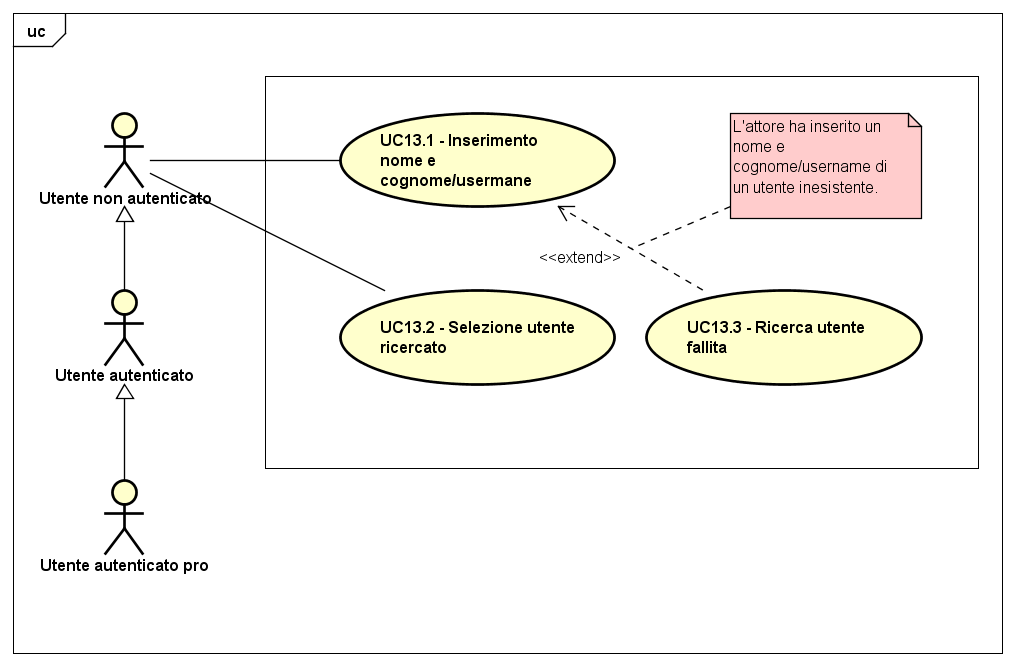
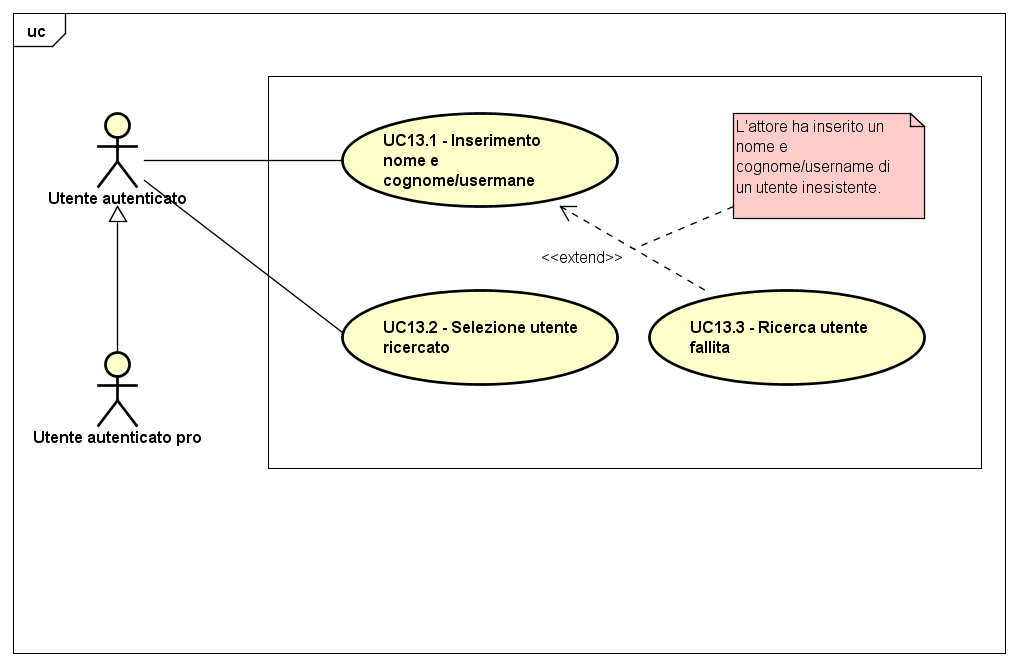
Correzzione UC5, 13, 8.1.3.7 e 8.2.3.7

diff --git a/RR/AnalisiDeiRequisiti/sezioni/CasiD'uso/CasoD'usoUC5.tex b/RR/AnalisiDeiRequisiti/sezioni/CasiD'uso/CasoD'usoUC5.tex
@@ -1,4 +1,5 @@
 \subsection{Caso d'uso UC5: Gestione profilo utente}
+
 \label{UC5}
 \begin{figure}[h]
 	\centering
@@ -9,7 +10,7 @@
 \begin{itemize}
 	\item \textbf{Attori}: utente autenticato, utente autenticato pro;
 	\item \textbf{Descrizione}: l'attore può visualizzare e modificare i suoi dati personali;
-	\item \textbf{Precondizione}: il sistema è predisposto per consentire all'attore di gestire i propri dati personali;
+	\item \textbf{Precondizione}: l'attore è entrato nella gestione del proprio profilo utente;
 	\item \textbf{Postcondizione}: il sistema ha attuato le modifiche effettuate dall'attore ai propri dati personali;
 	\item \textbf{Scenario principale}:
 		\begin{enumerate}
@@ -35,7 +36,7 @@
 \begin{itemize}
 	\item \textbf{Attori}: utente autenticato, utente autenticato pro;
 	\item \textbf{Descrizione}: l'attore può modificare il proprio nome;
-	\item \textbf{Precondizione}: il sistema presenta la schermata dove è possibile modificare il nome utente;
+	\item \textbf{Precondizione}: l'attore ha selezionato l'opzione modifica nome utente dalla gestione del profilo utente;
 	\item \textbf{Postcondizione}: il sistema ha reso persistenti le modifiche al nome utente;
 	\item \textbf{Scenario principale}:
 		\begin{enumerate}
@@ -50,7 +51,7 @@
 \begin{itemize}
 	\item \textbf{Attori}: utente autenticato, utente autenticato pro;
 	\item \textbf{Descrizione}: l'attore può inserire un nuovo nome utente;
-	\item \textbf{Precondizione}: il sistema richiede all'attore di inserire un nuovo nome utente;
+	\item \textbf{Precondizione}: l'attore ha selezionato l'opzione modifica nome utente dalla gestione del profilo utente;
 	\item \textbf{Postcondizione}: l'attore ha inserito il nuovo nome utente;
 	\item \textbf{Scenario principale}: l'attore inserisce il nuovo nome utente.
 \end{itemize}
@@ -75,7 +76,7 @@
 \begin{itemize}
 	\item \textbf{Attori}: utente autenticato, utente autenticato pro;
 	\item \textbf{Descrizione}: l'attore può modificare il proprio cognome;
-	\item \textbf{Precondizione}: il sistema presenta la schermata dove è possibile modificare il cognome utente;
+	\item \textbf{Precondizione}: l'attore ha selezionato l'opzione modifica cognome utente dalla gestione del profilo utente; 
 	\item \textbf{Postcondizione}: il sistema ha reso persistenti le modifiche al cognome utente;
 	\item \textbf{Scenario principale}:
 	\begin{enumerate}
@@ -90,7 +91,7 @@
 \begin{itemize}
 	\item \textbf{Attori}: utente autenticato, utente autenticato pro;
 	\item \textbf{Descrizione}: l'attore può inserire un nuovo cognome utente;
-	\item \textbf{Precondizione}:  il sistema richiede all'attore di inserire un nuovo cognome utente;
+	\item \textbf{Precondizione}:  l'attore ha selezionato l'opzione modifica cognome utente dalla gestione del profilo utente; 
 	\item \textbf{Postcondizione}:  l'attore ha inserito il nuovo cognome utente;
 	\item \textbf{Scenario principale}: l'attore inserisce il nuovo cognome utente.
 \end{itemize}
@@ -115,7 +116,7 @@
 \begin{itemize}
 	\item \textbf{Attori}: utente autenticato, utente autenticato pro;
 	\item \textbf{Descrizione}: l'attore può modificare il proprio username;
-	\item \textbf{Precondizione}: il sistema presenta la schermata dove è possibile modificare lo username;
+	\item \textbf{Precondizione}: l'attore ha selezionato l'opzione modifica username dalla gestione del profilo utente; 
 	\item \textbf{Postcondizione}: il sistema ha reso persistenti le modifiche allo username;
 	\item \textbf{Scenario principale}:
 	\begin{enumerate}
@@ -130,7 +131,7 @@
 \begin{itemize}
 	\item \textbf{Attori}: utente autenticato, utente autenticato pro;
 	\item \textbf{Descrizione}: l'attore può inserire un nuovo username;
-	\item \textbf{Precondizione}: il sistema richiede all'attore di inserire un nuovo username;
+	\item \textbf{Precondizione}: l'attore ha selezionato l'opzione modifica username dalla gestione del profilo utente; 
 	\item \textbf{Postcondizione}: l'attore ha inserito il nuovo username;
 	\item \textbf{Scenario principale}: l'attore inserisce il nuovo username.
 \end{itemize}
@@ -155,7 +156,7 @@
 \begin{itemize}
 	\item \textbf{Attori}: utente autenticato, utente autenticato pro;
 	\item \textbf{Descrizione}: l'attore può inserire una foto/immagine per il proprio profilo utente;
-	\item \textbf{Precondizione}: il sistema presenta la schermata dove è possibile inserire foto/immagini;
+	\item \textbf{Precondizione}: l'attore ha selezionato l'opzione inserimento foto/immagine dalla gestione del profilo utente; 
 	\item \textbf{Postcondizione}: il sistema ha allegato la nuova foto/immagine al profilo utente;
 	\item \textbf{Scenario principale}:
 	\begin{enumerate}
@@ -170,7 +171,7 @@
 \begin{itemize}
 	\item \textbf{Attori}: utente autenticato, utente autenticato pro;
 	\item \textbf{Descrizione}: l'attore può caricare una nuova foto/immagine;
-	\item \textbf{Precondizione}: il sistema richiede all'attore di caricare una nuova foto/immagine;
+	\item \textbf{Precondizione}: l'attore ha selezionato l'opzione inserimento foto/immagine dalla gestione del profilo utente;  
 	\item \textbf{Postcondizione}: l'attore ha caricato una nuova foto/immagine;
 	\item \textbf{Scenario principale}: l'attore carica una nuova foto/immagine.
 \end{itemize}
@@ -197,7 +198,7 @@
 \begin{itemize}
 	\item \textbf{Attori}: utente autenticato, utente autenticato pro;
 	\item \textbf{Descrizione}: l'attore può modificare il proprio indirizzo di posta elettronica inserendone uno nuovo;
-	\item \textbf{Precondizione}: il sistema presenta la schermata dove è possibile modificare l'indirizzo di posta elettronica;
+	\item \textbf{Precondizione}:  l'attore ha selezionato l'opzione modifica e-mail dalla gestione del profilo utente; 
 	\item \textbf{Postcondizione}: il sistema ha reso persistenti le modifiche all'indirizzo di posta elettronica;
 	\item \textbf{Scenario principale}:
 		\begin{enumerate}
@@ -212,7 +213,7 @@
 \begin{itemize}
 	\item \textbf{Attori}: utente autenticato, utente autenticato pro;
 	\item \textbf{Descrizione}: l'attore può inserire un nuovo indirizzo di posta elettronica;
-	\item \textbf{Precondizione}: il sistema richiede all'attore di inserire un nuovo indirizzo di posta elettronica;
+	\item \textbf{Precondizione}:  l'attore ha selezionato l'opzione modifica e-mail dalla gestione del profilo utente;
 	\item \textbf{Postcondizione}: l'attore ha inserito un nuovo indirizzo di posta elettronica;
 	\item \textbf{Scenario principale}: l'attore inserisce un nuovo indirizzo di posta elettronica.
 \end{itemize}
@@ -238,7 +239,7 @@
 \begin{itemize}
 	\item \textbf{Attori}: utente autenticato, utente autenticato pro;
 	\item \textbf{Descrizione}: l'attore può modificare la propria password inserendone una nuova;
-	\item \textbf{Precondizione}: il sistema presenta la schermata dove è possibile modificare la propria password;
+	\item \textbf{Precondizione}:  l'attore ha selezionato l'opzione modifica password dalla gestione del profilo utente;
 	\item \textbf{Postcondizione}: il sistema ha reso persistenti le modifiche alla propria password;
 	\item \textbf{Scenario principale}:
 	\begin{enumerate}
@@ -254,7 +255,7 @@
 \begin{itemize}
 	\item \textbf{Attori}: utente autenticato, utente autenticato pro;
 	\item \textbf{Descrizione}: l'attore può inserire la vecchia password;
-	\item \textbf{Precondizione}: il sistema richiede all'attore di inserire la vecchia password;
+	\item \textbf{Precondizione}:  l'attore ha selezionato l'opzione modifica e-mail dalla gestione del profilo utente;
 	\item \textbf{Postcondizione}: l'attore ha inserito la vecchia password;
 	\item \textbf{Scenario principale}: l'attore inserisce la vecchia password.
 \end{itemize}
@@ -264,7 +265,7 @@
 \begin{itemize}
 	\item \textbf{Attori}: utente autenticato, utente autenticato pro;
 	\item \textbf{Descrizione}: l'attore può inserire la nuova password;
-	\item \textbf{Precondizione}: il sistema richiede all'attore di inserire la nuova password;
+	\item \textbf{Precondizione}: l'attore ha inserito la vecchia password;
 	\item \textbf{Postcondizione}: l'attore inserisce la nuova password;
 	\item \textbf{Scenario principale}: l'attore inserisce la nuova password.
 \end{itemize}
@@ -274,7 +275,7 @@
 \begin{itemize}
 	\item \textbf{Attori}: utente autenticato, utente autenticato pro;
 	\item \textbf{Descrizione}: l'attore può inserire la nuova password nuovamente;
-	\item \textbf{Precondizione}: il sistema richiede all'attore di inserire nuovamente la nuova password;
+	\item \textbf{Precondizione}: l'attore ha inserito la nuova password;
 	\item \textbf{Postcondizione}: l'attore inserisce nuovamente la nuova password;
 	\item \textbf{Scenario principale}: l'attore inserisce nuovamente la nuova password.
 \end{itemize}
@@ -284,7 +285,7 @@
 \begin{itemize}
 	\item \textbf{Attori}: utente autenticato, utente autenticato pro;
 	\item \textbf{Descrizione}: l'attore può confermare le modifiche alla password effettuate;
-	\item \textbf{Precondizione}: l'attore ha inserito una nuova password;
+	\item \textbf{Precondizione}: l'attore ha inserito tutti i campi richiesti per il cambio di password;
 	\item \textbf{Postcondizione}: il sistema rende persistenti le modifiche effettuate alla password;
 	\item \textbf{Scenario principale}: l'attore conferma le modifiche alla password effettuate.
 \end{itemize}
@@ -300,13 +301,14 @@
 \begin{itemize}
 	\item \textbf{Attori}: utente autenticato, utente autenticato pro;
 	\item \textbf{Descrizione}: l'attore può cambiare la tipologia del proprio account; 
-	\item \textbf{Precondizione}: il sistema visualizza l'opzione dove è possibile cambiare la tipologia del proprio account;
+	\item \textbf{Precondizione}:  l'attore ha selezionato l'opzione cambio tipologia di account dalla gestione del profilo utente;
 	\item \textbf{Postcondizione}: il sistema ha cambiato la tipologia dell'account;
 	\item \textbf{Scenario principale}:
 	\begin{enumerate}
-		\item L'utente può selezionare il nuovo tipo di account a cui passare (UC5.7.1)
-		\item L'utente può confermare il cambio di tipologia del proprio account (UC5.7.2).
+		\item L'attore può selezionare il nuovo tipo di account a cui passare (UC5.7.1)
+		\item L'attore può confermare il cambio di tipologia del proprio account (UC5.7.2).
 	\end{enumerate}
+	\item \textbf{Scenari alternativi}: l'attore annulla le modifiche e il sistema lo riporta alla schermata di gestione del profilo utente.
 \end{itemize}
 
 \subsubsection{Caso d'uso UC5.7.1: Selezione tipologia account}
@@ -314,7 +316,7 @@
 \begin{itemize}
 	\item \textbf{Attori}: utente autenticato, utente autenticato pro;
 	\item \textbf{Descrizione}: l'attore può selezionare una nuova tipologia di account a cui passare;
-	\item \textbf{Precondizione}: il sistema offre all'attore la possibilità di cambiare tipologia di account;
+	\item \textbf{Precondizione}: l'attore ha selezionato l'opzione cambio tipologia di account dalla gestione del profilo utente;
 	\item \textbf{Postcondizione}: l'attore ha selezionato  una nuova tipologia di account;
 	\item \textbf{Scenario principale}: l'attore seleziona una tipologia di account a cui passare.
 \end{itemize}
@@ -340,12 +342,13 @@
 \begin{itemize}
 	\item \textbf{Attori}: utente autenticato, utente autenticato pro;
 	\item \textbf{Descrizione}: l'attore può eliminare il proprio account dal sistema; l'eliminazione dell'account comporta la cancellazione dei propri dati dal sistema; 
-	\item \textbf{Precondizione}: il sistema visualizza l'opzione dove è possibile eliminare il proprio account;
-	\item \textbf{Postcondizione}: il sistema ha eliminato in maniera persistente il proprio account e tutti i relativi dati;
+	\item \textbf{Precondizione}: l'attore ha selezionato l'opzione di eliminazione account;
+	\item \textbf{Postcondizione}: il sistema ha eliminato in maniera persistente l'account e tutti i relativi dati;
 	\item \textbf{Scenario principale}:
 		\begin{enumerate}
 			\item L'utente può confermare l'eliminazione del proprio account e dei relativi dati personali (UC5.8.1).
 		\end{enumerate}
+		\item \textbf{Scenari alternativi}: l'attore annulla l'eliminazione dell'account e il sistema lo riporta alla schermata di gestione del profilo utente.
 \end{itemize}
 
 \subsubsection{Caso d'uso UC5.8.1: Conferma eliminazione account}
@@ -353,7 +356,7 @@
 \begin{itemize}
 	\item \textbf{Attori}: utente autenticato, utente autenticato pro;
 	\item \textbf{Descrizione}: l'attore può confermare la cancellazione del proprio account e dei relativi dati dal sistema;
-	\item \textbf{Precondizione}: l'attore ha richiesto al sistema di eliminare il proprio account;
+	\item \textbf{Precondizione}: l'attore ha selezionato l'opzione di eliminazione account;
 	\item \textbf{Postcondizione}: il sistema ha eliminato l'account dell'attore richiedente e tutti i relativi dati;
 	\item \textbf{Scenario principale}: l'attore conferma l'eliminazione del proprio account;
 \end{itemize}

diff --git a/RR/AnalisiDeiRequisiti/sezioni/CasiD'uso/wizardUC8/CasoD'usoUC8_2_3_7.tex b/RR/AnalisiDeiRequisiti/sezioni/CasiD'uso/wizardUC8/CasoD'usoUC8_2_3_7.tex
@@ -8,50 +8,50 @@
 \FloatBarrier
 \begin{itemize}
 	\item \textbf{Attori}: utente autenticato, utente autenticato pro;
-	\item \textbf{Descrizione}: questa funzionalità offre agli attori la possibilità di modificare una domanda la cui risposta è selezionabile all'interno di aree cliccabili in un immagine;
-	\item \textbf{Precondizione}: gli attori hanno selezionato la modalità di modifica di una domanda con area cliccabile; 
-	\item \textbf{Postcondizione}: gli attori hanno modificato una domanda con area cliccabile nell'immagine;
+	\item \textbf{Descrizione}: questa funzionalità offre all'attore la possibilità di modificare una domanda la cui risposta è selezionabile all'interno di aree cliccabili in un immagine;
+	\item \textbf{Precondizione}: l'attore ha selezionato la modalità di modifica di una domanda con area cliccabile; 
+	\item \textbf{Postcondizione}: l'attore ha modificato una domanda con area cliccabile nell'immagine;
 	\item \textbf{Scenario principale}:
 		\begin{enumerate}
-	       	\item Gli attori possono modificare il campo dati destinato alla scrittura del testo della domanda (UC8.2.1.7.1);
-	        \item Gli attori possono inserire una nuova immagine relativa al testo della domanda (UC8.1.1.7.2);
-			\item Gli attori possono scegliere un nuovo numero di aree che saranno selezionabili all'interno dell'immagine (UC8.2.1.7.3);
-			\item Gli attori possono scegliere nuove aree selezionabili all'interno dell'immagine (UC8.2.1.7.4);
+	       	\item L'attore può modificare il campo dati destinato alla scrittura del testo della domanda (UC8.2.1.7.1);
+	        \item L'attore può inserire una nuova immagine relativa al testo della domanda (UC8.1.1.7.2);
+			\item L'attore può scegliere un nuovo numero di aree che saranno selezionabili all'interno dell'immagine (UC8.2.1.7.3);
+			\item L'attore può scegliere nuove aree selezionabili all'interno dell'immagine (UC8.2.1.7.4);
 	 	\end{enumerate}
 \end{itemize}
 
 \subsubsection{Caso d'uso UC8.2.1.7.1: Modifica testo domanda}
 \begin{itemize}
 	\item \textbf{Attori}: utente autenticato, utente autenticato pro;
-	\item \textbf{Descrizione}: gli attori possono modificare il testo della domanda;
-	\item \textbf{Precondizione}: gli attori hanno selezionato la modalità di modifica di una domanda con area cliccabile;
-	\item \textbf{Postcondizione}: gli attori hanno modificato il testo della domanda.
+	\item \textbf{Descrizione}: l'attore può modificare il testo della domanda;
+	\item \textbf{Precondizione}: l'attore ha selezionato la modalità di modifica del testo della domanda;
+	\item \textbf{Postcondizione}: l'attore ha modificato il testo della domanda.
 \end{itemize}
 
 \subsubsection{Caso d'uso UC8.2.1.7.2: Inserimento nuova immagine}
 \begin{itemize}
 	\item \textbf{Attori}: utente autenticato, utente autenticato pro;
-	\item \textbf{Descrizione}: gli attori hanno la possibilità di inserire una nuova immagine relativa al testo della domanda;
-	\item \textbf{Precondizione}: gli attori hanno selezionato la modalità di modifica di una domanda con area cliccabile; 
-	\item \textbf{Postcondizione}: gli attori hanno inserito una nuova immagine;
-	\item \textbf{Scenario principale}: gli attori inseriscono una nuova immagine. 	
+	\item \textbf{Descrizione}: l'attore ha la possibilità di inserire una nuova immagine relativa al testo della domanda;
+	\item \textbf{Precondizione}: l'attore ha selezionato la modalità di modifica dell'immagine; 
+	\item \textbf{Postcondizione}: l'attore ha inserito una nuova immagine;
+	\item \textbf{Scenario principale}: l'attore inserisce una nuova immagine. 	
 \end{itemize}
 
 \subsubsection{Caso d'uso UC8.2.1.7.3: Modifica numero aree selezionabili}
 \begin{itemize}
 	\item \textbf{Attori}: utente autenticato, utente autenticato pro;
-	\item \textbf{Descrizione}: gli attori hanno la possibilità di scegliere un nuovo numero di aree selezionabili all'interno dell'immagine;
-	\item \textbf{Precondizione}: gli attori hanno selezionato la modalità di modifica di una domanda con area cliccabile; 
-	\item \textbf{Postcondizione}: gli attori hanno scelto il nuovo numero di aree selezionabili all'interno dell'immagine;
-	\item \textbf{Scenario principale}: gli attori scelgono il nuovo numero di aree selezionabili all'interno dell'immagine. 	
+	\item \textbf{Descrizione}: l'attore ha la possibilità di scegliere un nuovo numero di aree selezionabili all'interno dell'immagine;
+	\item \textbf{Precondizione}: l'attore ha selezionato la modalità di modifica del numero di aree selezionabili; 
+	\item \textbf{Postcondizione}: l'attore ha scelto il nuovo numero di aree selezionabili all'interno dell'immagine;
+	\item \textbf{Scenario principale}: l'attore sceglie il nuovo numero di aree selezionabili all'interno dell'immagine. 	
 \end{itemize}
 
 \subsubsection{Caso d'uso UC8.2.1.7.4: Scelta nuove aree selezionabili}
 \begin{itemize}
 	\item \textbf{Attori}: utente autenticato, utente autenticato pro;
-	\item \textbf{Descrizione}: gli attori hanno la possibilità di scegliere nuove aree selezionabili all'interno dell'immagine;
-	\item \textbf{Precondizione}: gli attori hanno selezionato la modalità di modifica di una domanda con area cliccabile; 
-	\item \textbf{Postcondizione}: gli attori hanno scelto nuove aree selezionabili all'interno dell'immagine;
-	\item \textbf{Scenario principale}: gli attori scelgono nuove aree selezionabili all'interno dell'immagine. 	
+	\item \textbf{Descrizione}: l'attore ha la possibilità di scegliere nuove aree selezionabili all'interno dell'immagine;
+	\item \textbf{Precondizione}: l'attore ha selezionato la modalità di scelta delle nuove aree cliccabili; 
+	\item \textbf{Postcondizione}: l'attore ha scelto nuove aree selezionabili all'interno dell'immagine;
+	\item \textbf{Scenario principale}: l'attore sceglie nuove aree selezionabili all'interno dell'immagine. 	
 \end{itemize}
 

diff --git a/RR/AnalisiDeiRequisiti/sezioni/CasiD'uso/wizardUC8/CasoD'usoUC8_1_3_7.tex b/RR/AnalisiDeiRequisiti/sezioni/CasiD'uso/wizardUC8/CasoD'usoUC8_1_3_7.tex
@@ -8,50 +8,50 @@
 \FloatBarrier
 \begin{itemize}
 	\item \textbf{Attori}: utente autenticato, utente autenticato pro;
-	\item \textbf{Descrizione}: questa funzionalità offre agli attori la possibilità di creare domande la cui risposta è selezionabile all'interno di aree cliccabili in un immagine;
-	\item \textbf{Precondizione}: gli attori hanno selezionato la seguente funzionalità; 
-	\item \textbf{Postcondizione}: gli attori hanno creato una domanda con area cliccabile nell'immagine;
+	\item \textbf{Descrizione}: questa funzionalità offre al'attore la possibilità di creare domande la cui risposta è selezionabile all'interno di aree cliccabili in un immagine;
+	\item \textbf{Precondizione}: l'attore hanno selezionato la creazione di una domanda con area cliccabile nell'immagine; 
+	\item \textbf{Postcondizione}: l'attore hanno creato una domanda con area cliccabile nell'immagine;
 	\item \textbf{Scenario principale}:
 		\begin{enumerate}
-	       	\item Gli attori possono compilare il campo dati destinato alla scrittura del testo della domanda (UC8.1.3.7.1);
-	        \item Gli attori possono inserire una immagine relativa al testo della domanda (UC8.1.3.7.2);
-			\item Gli attori possono scegliere quante aree saranno selezionabili all'interno dell'immagine (UC8.1.3.7.3);
-			\item Gli attori possono scegliere le aree selezionabili all'interno dell'immagine (UC8.1.3.7.4);
+	       	\item L'attore può compilare il campo dati destinato alla scrittura del testo della domanda (UC8.1.3.7.1);
+	        \item L'attore può inserire una immagine relativa al testo della domanda (UC8.1.3.7.2);
+			\item L'attore può scegliere quante aree saranno selezionabili all'interno dell'immagine (UC8.1.3.7.3);
+			\item L'attore può scegliere le aree selezionabili all'interno dell'immagine (UC8.1.3.7.4);
 	 	\end{enumerate}
 \end{itemize}
 
 \subsubsection{Caso d'uso UC8.1.3.7.1: Compilazione testo domanda}
 \begin{itemize}
 	\item \textbf{Attori}: utente autenticato, utente autenticato pro;
-	\item \textbf{Descrizione}: gli attori possono inserire un testo per la domanda che vogliono creare;
-	\item \textbf{Precondizione}: gli attori hanno selezionato la modalità di creazione di una domanda con area cliccabile;
-	\item \textbf{Postcondizione}: gli attori hanno inserito il testo della domanda.
+	\item \textbf{Descrizione}: l'attore può inserire un testo per la domanda che vogliono creare;
+	\item \textbf{Precondizione}: l'attore ha selezionato la modalità di creazione di una domanda con area cliccabile;
+	\item \textbf{Postcondizione}: l'attore ha inserito il testo della domanda.
 \end{itemize}
 
 \subsubsection{Caso d'uso UC8.1.3.7.2: Inserimento immagine}
 \begin{itemize}
 	\item \textbf{Attori}: utente autenticato, utente autenticato pro;
-	\item \textbf{Descrizione}: gli attori hanno la possibilità di inserire un'immagine relativa al testo della domanda;
-	\item \textbf{Precondizione}: gli attori hanno selezionato la modalità di creazione di una domanda con area cliccabile; 
-	\item \textbf{Postcondizione}: gli attori hanno inserito l'immagine;
-	\item \textbf{Scenario principale}: gli attori inseriscono l'immagine. 	
+	\item \textbf{Descrizione}: l'attore ha la possibilità di inserire un'immagine relativa al testo della domanda;
+	\item \textbf{Precondizione}: l'attore ha selezionato la modalità di creazione di una domanda con area cliccabile; 
+	\item \textbf{Postcondizione}: l'attore ha inserito l'immagine;
+	\item \textbf{Scenario principale}: l'attore inserisce l'immagine. 	
 \end{itemize}
 
 \subsubsection{Caso d'uso UC8.1.3.7.3: Scelta numero aree selezionabili}
 \begin{itemize}
 	\item \textbf{Attori}: utente autenticato, utente autenticato pro;
-	\item \textbf{Descrizione}: gli attori hanno la possibilità di scegliere il numero di aree selezionabili all'interno dell'immagine;
-	\item \textbf{Precondizione}: gli attori hanno selezionato la modalità di creazione di una domanda con area cliccabile; 
-	\item \textbf{Postcondizione}: gli attori hanno scelto il numero di aree selezionabili all'interno dell'immagine;
-	\item \textbf{Scenario principale}: gli attori scelgono il numero di aree selezionabili all'interno dell'immagine. 	
+	\item \textbf{Descrizione}: l'attore ha la possibilità di scegliere il numero di aree selezionabili all'interno dell'immagine;
+	\item \textbf{Precondizione}: l'attore ha selezionato la modalità di creazione di una domanda con area cliccabile; 
+	\item \textbf{Postcondizione}: l'attore ha scelto il numero di aree selezionabili all'interno dell'immagine;
+	\item \textbf{Scenario principale}: l'attore sceglie il numero di aree selezionabili all'interno dell'immagine. 	
 \end{itemize}
 
 \subsubsection{Caso d'uso UC8.1.3.7.4: Scelta aree selezionabili}
 \begin{itemize}
 	\item \textbf{Attori}: utente autenticato, utente autenticato pro;
-	\item \textbf{Descrizione}: gli attori hanno la possibilità di scegliere le aree selezionabili all'interno dell'immagine;
-	\item \textbf{Precondizione}: gli attori hanno selezionato la modalità di creazione di una domanda con area cliccabile; 
-	\item \textbf{Postcondizione}: gli attori hanno scelto le aree selezionabili all'interno dell'immagine;
-	\item \textbf{Scenario principale}: gli attori scelgono le aree selezionabili all'interno dell'immagine. 	
+	\item \textbf{Descrizione}: l'attore ha la possibilità di scegliere le aree selezionabili all'interno dell'immagine;
+	\item \textbf{Precondizione}: l'attore ha selezionato la modalità di creazione di una domanda con area cliccabile; 
+	\item \textbf{Postcondizione}: l'attore ha scelto le aree selezionabili all'interno dell'immagine;
+	\item \textbf{Scenario principale}: l'attore sceglie le aree selezionabili all'interno dell'immagine. 	
 \end{itemize}
 

diff --git a/RR/AnalisiDeiRequisiti/sezioni/CasiD'uso/CasoD'usoUC13.tex b/RR/AnalisiDeiRequisiti/sezioni/CasiD'uso/CasoD'usoUC13.tex
@@ -8,7 +8,7 @@
 \end{figure}
 \FloatBarrier
 \begin{itemize}
-	\item \textbf{Attori}: utente non autenticato, utente autenticato, utente autenticato pro;
+	\item \textbf{Attori}: utente autenticato, utente autenticato pro;
 	\item \textbf{Descrizione}: l'attore può ricercare un utente registrato al sistema;
 	\item \textbf{Precondizione}: il sistema visualizza la barra di ricerca per gli utenti registrati;
 	\item \textbf{Postcondizione}: il sistema visualizza il profilo utente dell' utente ricercato;
@@ -26,7 +26,7 @@
 \begin{itemize}
 	\item \textbf{Attori}: utente non autenticato, utente autenticato, utente autenticato pro;
 	\item \textbf{Descrizione}: l'attore può inserire nome e cognome/username di un utente nella barra di ricerca;
-	\item \textbf{Precondizione}: il sistema visualizza la barra di ricerca degli utenti;
+	\item \textbf{Precondizione}: l'attore ha selezionato la barra di ricerca utente;
 	\item \textbf{Postcondizione}: l'attore ha inserito nome e cognome/username dell'utente che vuole ricercare;
 	\item \textbf{Scenario principale}: l'attore inserisce il nome e cognome/username dell'utente che vuole ricercare.
 \end{itemize}
@@ -34,7 +34,7 @@
 \subsubsection{Caso d'uso UC13.2: Selezione utente ricercato}
 
 \begin{itemize}
-	\item \textbf{Attori}: utente non autenticato, utente autenticato, utente autenticato pro;
+	\item \textbf{Attori}: utente autenticato, utente autenticato pro;
 	\item \textbf{Descrizione}: l'attore può selezionare l'utente ricercato per visualizzarne il profilo;
 	\item \textbf{Precondizione}: l'utente ha inserito il nome e congome/username dell'utente ricercato nella barra di ricerca e la ricerca è andata a buon fine;
 	\item \textbf{Postcondizione}: il sistema visualizza il profilo dell'utente selezionato;
@@ -44,7 +44,7 @@
 \subsubsection{Caso d'uso UC13.3: Ricerca utente fallita}
 
 \begin{itemize}
-	\item \textbf{Attori}: utente non autenticato, utente autenticato, utente autenticato pro;
+	\item \textbf{Attori}: utente autenticato, utente autenticato pro;
 	\item \textbf{Descrizione}: il sistema mostra un messaggio di fallimento della ricerca poiché l'attore ha inserito nome e cognome/username di un utente inesistente;
 	\item \textbf{Precondizione}: l'attore ha inserito nome e cognome/username di un utente inesistente;
 	\item \textbf{Postcondizione}: il sistema mostra un messaggio di fallimento della ricerca;
